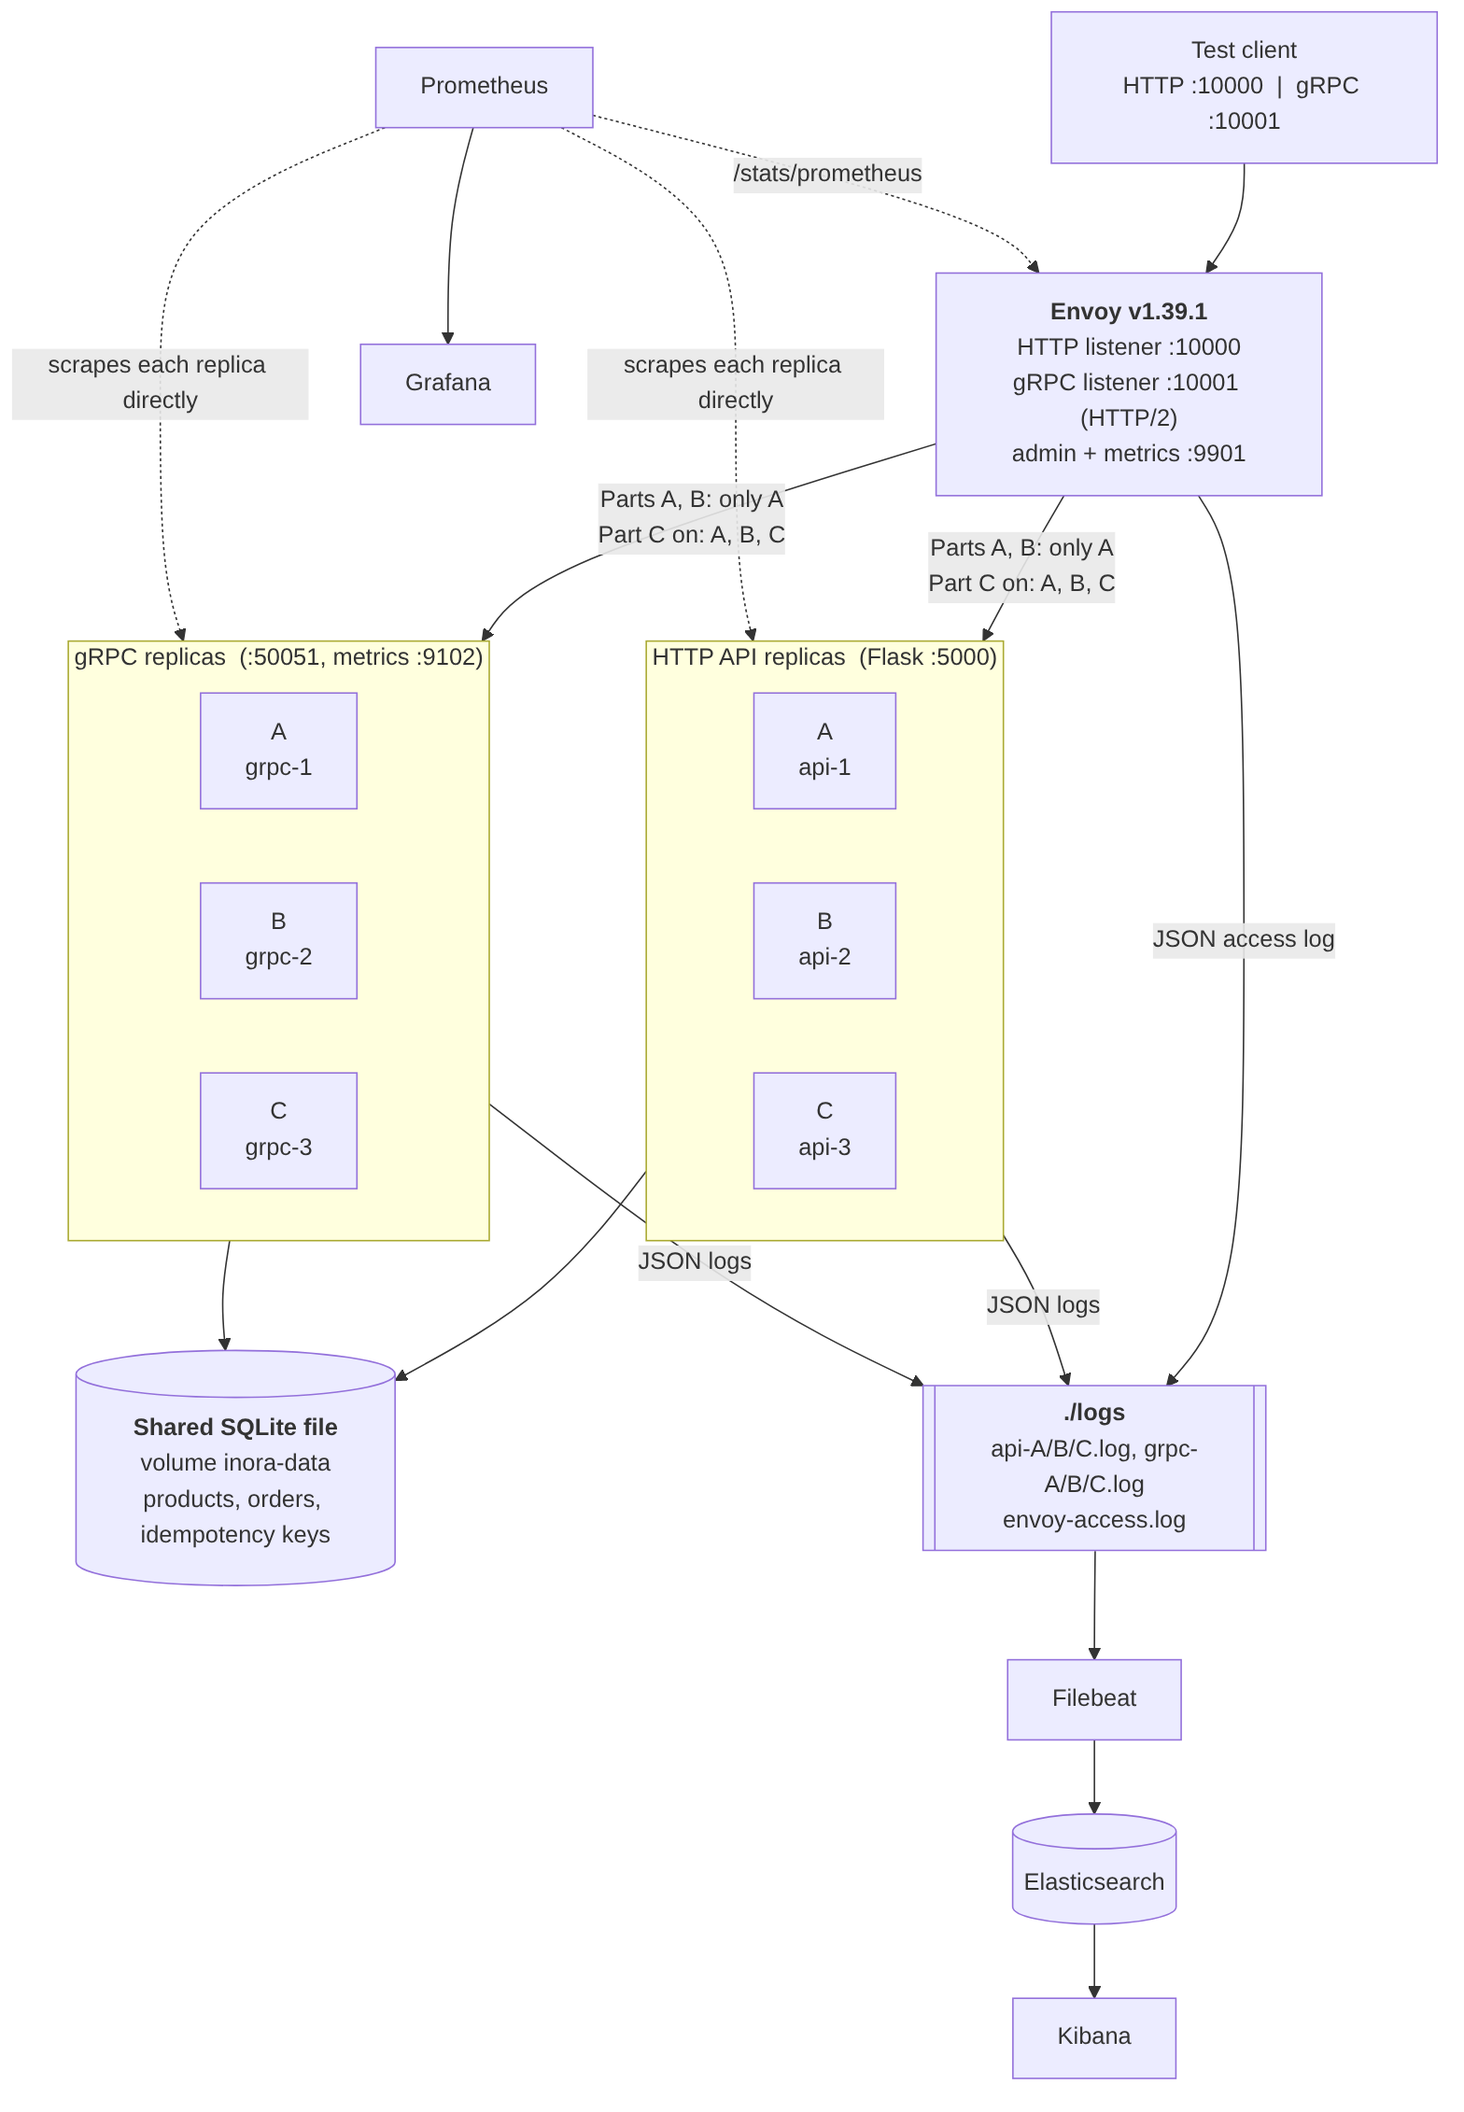
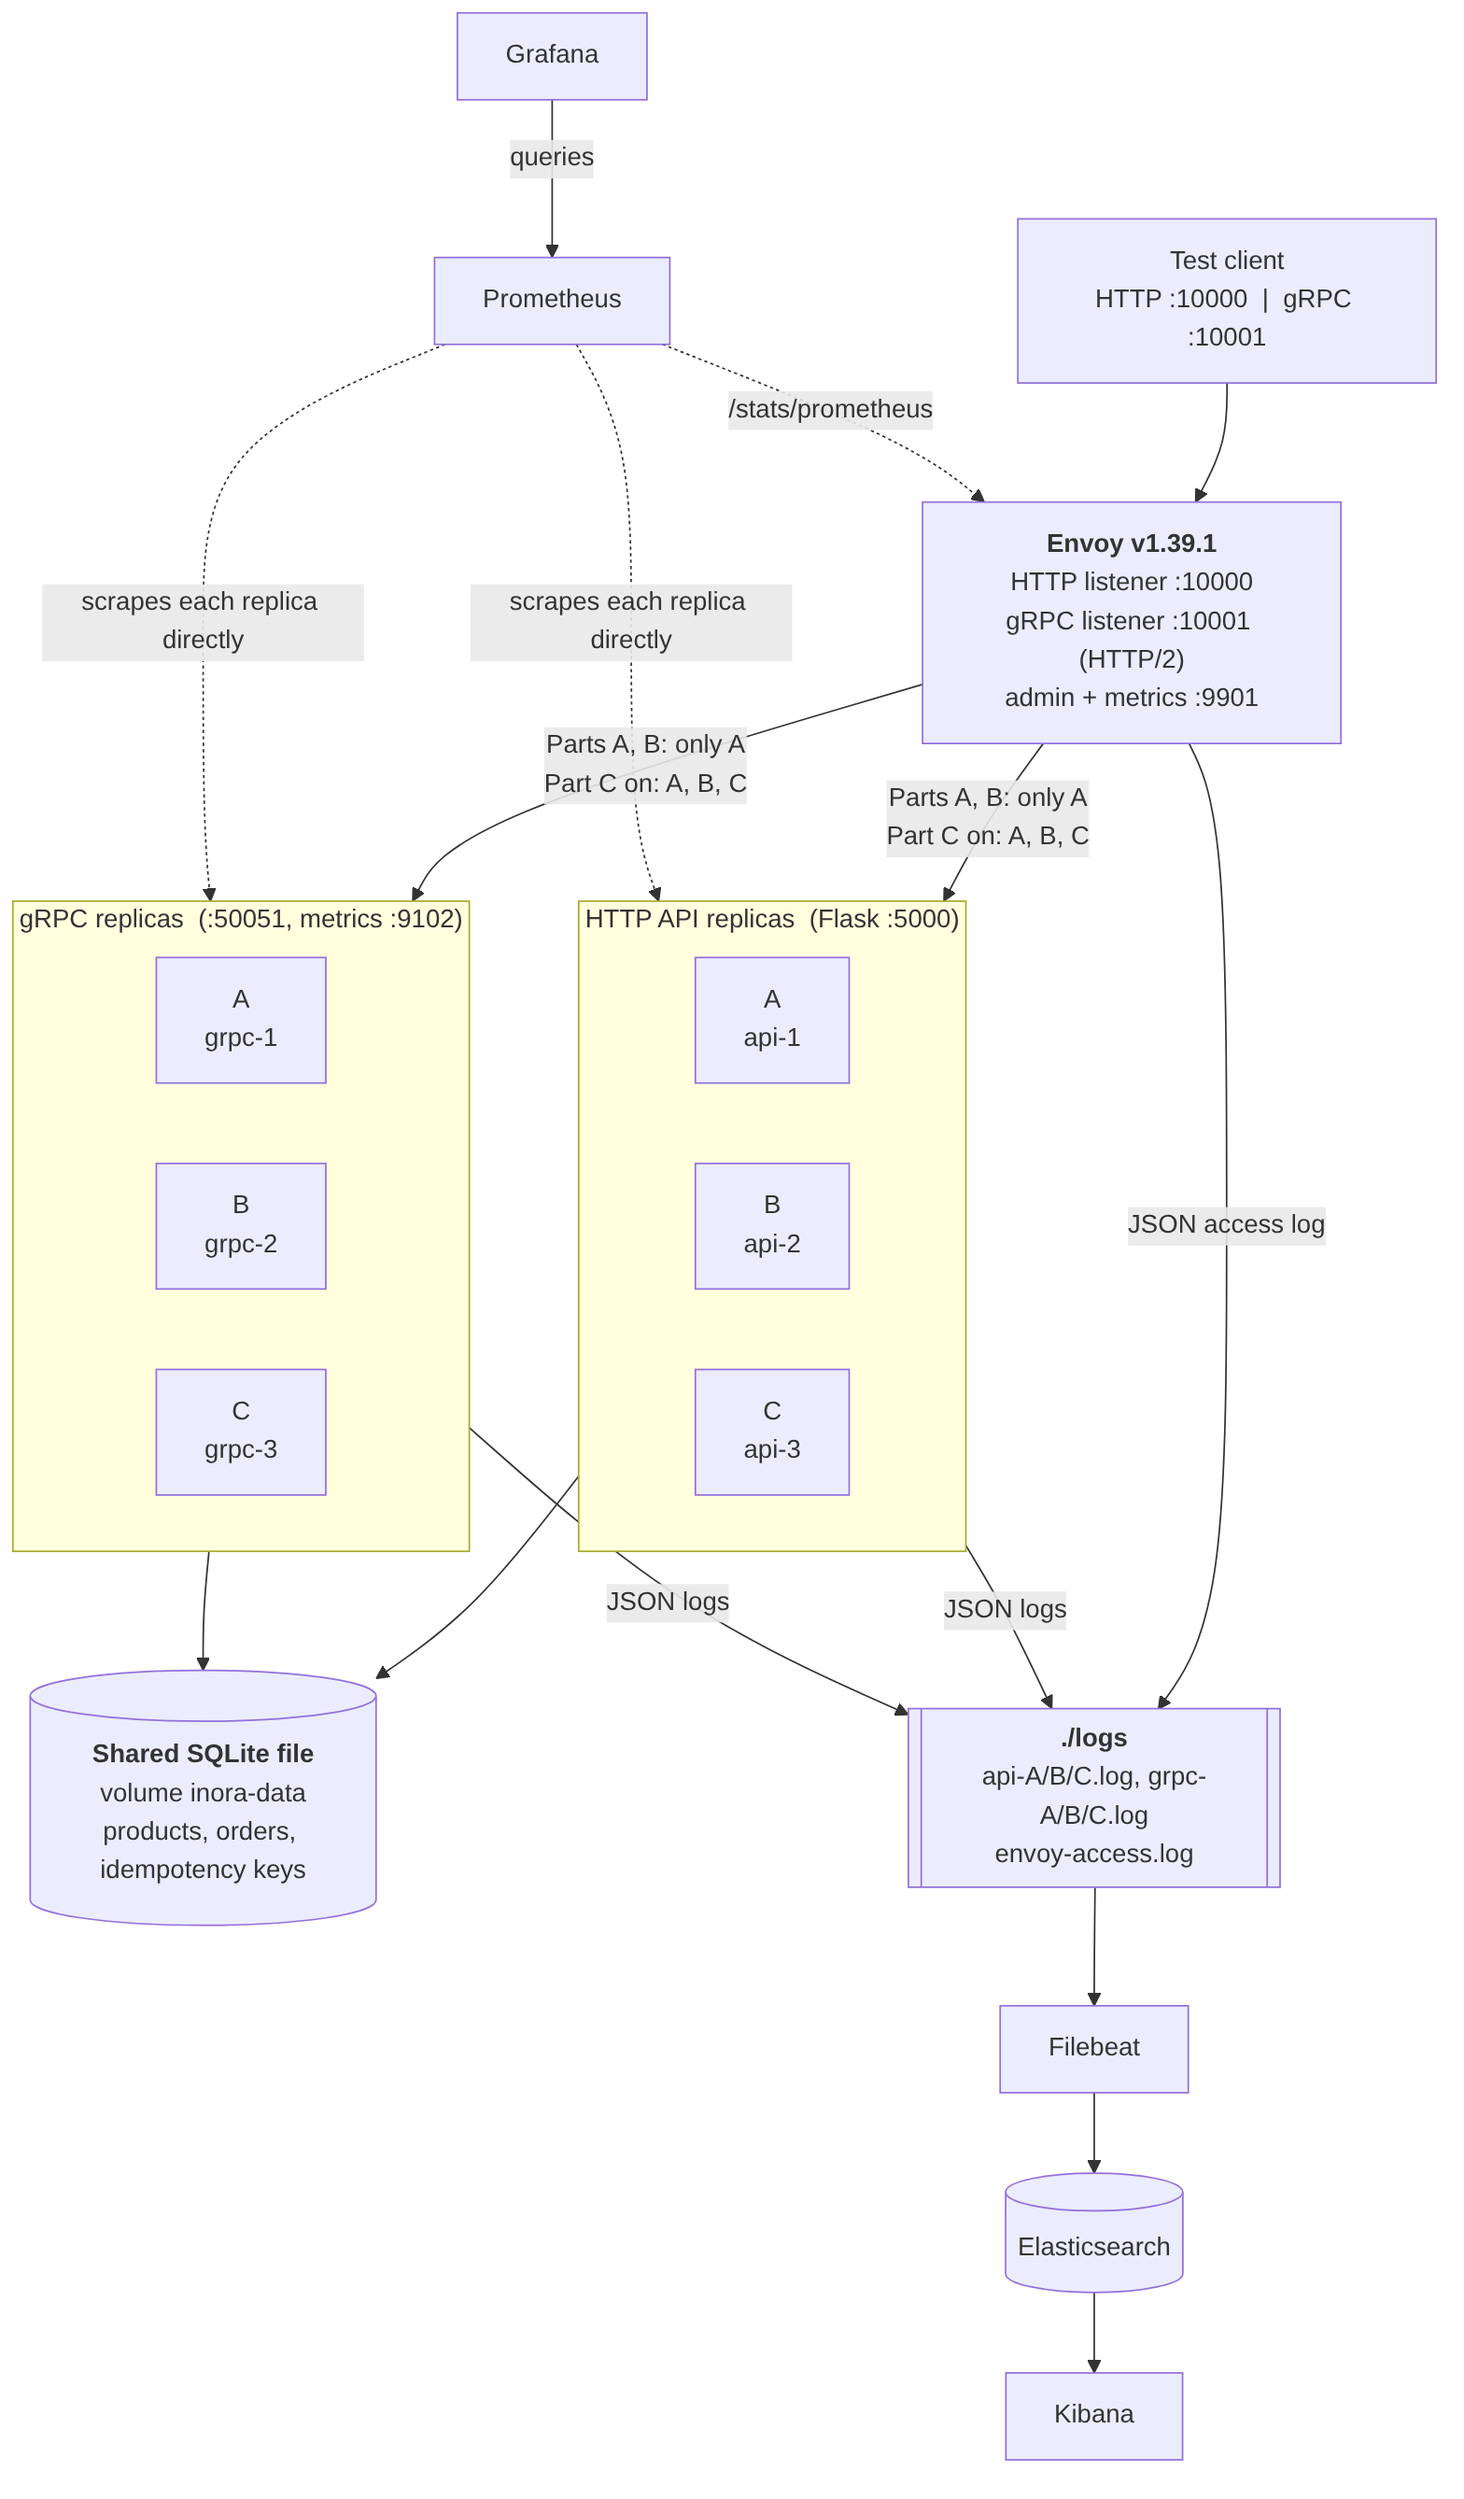
Shared-state doc audited against code; fix diagram arrow

diff --git a/docs/a3/SHARED_STATE.md b/docs/a3/SHARED_STATE.md
@@ -4,21 +4,28 @@ The HTTP API and the gRPC service each run as three identical copies (A, B, C). 
 any copy, so for every piece of state we must know: **is it shared by all replicas, or does each replica have
 its own?** If it is per replica, what goes wrong?
 
-| State | Where it lives | Shared or per replica? | What happens with several replicas |
-|---|---|---|---|
-| Products, stock, orders | One SQLite file on the Docker volume `inora-data`, mounted into every replica | **Shared** | Correct. Writes use `BEGIN IMMEDIATE`, so only one replica writes at a time and stock can never go negative. Limit: SQLite allows one writer at a time, so writes queue under load (not a problem for the read-only test traffic). |
-| Idempotency records (`Idempotency-Key` to order id) | Table `idempotency_keys` in the same SQLite file | **Shared** | Correct. A retry that lands on another replica, or on the other interface (HTTP vs gRPC), finds the stored key and returns the same order instead of creating a duplicate. Proven by `scripts/check_idempotency_across_replicas.py` (B creates, C and A replay). |
-| Rate-limit counters (5 requests / 10 s per client address on `POST /orders`) | A Python dict inside each API process (`FixedWindowRateLimiter`) | **Per replica** | The limit is no longer exact. With A only, a client gets 5 accepted + the rest `429`. With round robin over three replicas each replica counts separately, so about 15 requests are accepted in 10 s (about 3x the intended limit) and which requests are rejected depends on routing. Counters also vanish when a replica restarts. Shown by `scripts/ratelimit_demo.py` (A only now, round robin later). A shared counter store (for example in the database or Redis) or a limit enforced at Envoy would fix it. |
-| Prometheus metrics (counters, histograms, active requests) | In the memory of each process, exposed at its own `/metrics` | **Per replica** | Intended. Prometheus scrapes every replica separately and the `replica` label (A/B/C) tells the series apart, so dashboards can show each replica and the total (`sum`). A restart resets that replica's counters (Prometheus handles this in `rate()`). |
-| Product stock gauge (`inora_product_stock`) | Read from the shared database at scrape time | **Shared** (read by every replica) | All replicas report the same value; for totals use `max` or one replica, not `sum`. |
-| Log files | One file per replica in `./logs` (`api-A.log`, `grpc-B.log`, ...) plus Envoy's `envoy-access.log` | **Per replica** | Intended. Separate files stop replicas interleaving lines in one file. Every line carries `replica`, `trace_id` and `service_name`, so Elasticsearch/Kibana can join the Envoy event with the replica event for the same request. |
-| Trace context (`traceparent`) | Travels in the request (HTTP header / gRPC metadata) and is echoed back by the replica | **Stateless** | Nothing to share. Envoy forwards the header unchanged. Proven by `scripts/check_trace_propagation.py`. |
-| Replica identity (A/B/C) | Computed at start-up from the container name (`REPLICA_BASE` DNS lookup) | **Per replica** | Written to every log line, the `X-Replica` header, gRPC `x-replica` metadata and `inora_replica_info`. |
-| HTTP connections / gRPC channels | Between client and Envoy, and Envoy and replica | **Per connection** | A gRPC client keeps one long-lived HTTP/2 connection to Envoy. Because Envoy's gRPC listener understands HTTP/2 it can pick a replica **per call**, not per connection (this matters in Part C). |
+*Audited against the code on 2026-11-08; the last column says where each statement can be checked.*
+
+| State | Where it lives | Shared or per replica? | What happens with several replicas | Checked in |
+|---|---|---|---|---|
+| Products, stock, orders | One SQLite file on the Docker volume `inora-data`, mounted into every API and gRPC replica | **Shared** | Correct. Every write runs inside `BEGIN IMMEDIATE`, so only one replica writes at a time. Stock cannot go negative: the update only succeeds `WHERE stock >= quantity`, and the table also has `CHECK (stock >= 0)`. Limits: SQLite allows one writer at a time, so concurrent writes queue (a writer waits up to 10 s for the lock, then fails with "database is locked"); the database uses the default journal mode, so a read can briefly wait while a write commits. Our test traffic is read-only, so this does not affect the experiments. | `inora_core/service.py` (`place_order`, `_conn`, `SCHEMA`); `docker-compose.yml` volumes |
+| Idempotency records (`Idempotency-Key` to order id) | Table `idempotency_keys` in the same SQLite file | **Shared** | Correct. The key and the order are written in the same transaction. A retry that lands on another replica, or on the other interface (HTTP vs gRPC), finds the stored key and returns the same order instead of creating a duplicate. The same key with a different request is rejected as a conflict. | `place_order`; `scripts/check_idempotency_across_replicas.py` (B creates, C and A replay: PASS) |
+| Rate-limit counters (5 requests / 10 s per client address) | A Python dict inside each **HTTP API** process (`FixedWindowRateLimiter`); applies to `POST /orders` only. **gRPC has no rate limit.** | **Per replica** | The limit is no longer exact. With A only, a client gets 5 accepted and the rest `429`. With round robin over three replicas each replica counts separately, so we expect about 15 requests to be accepted in 10 s (about 3x the intended limit), and which requests are rejected depends on routing. This is a prediction until we measure it in Part C. Counters also vanish when a replica restarts. A shared counter store, or a limit enforced at Envoy, would fix it. The client key is the address in `X-Forwarded-For` (set by Envoy), so everything coming from one machine counts as one client. | `app.py` (`FixedWindowRateLimiter`, `place_order`); `scripts/ratelimit_demo.py` (A only: 5 accepted, 10 rejected) |
+| Prometheus metrics: request counts, latency histograms, active requests, order and rate-limit counters | In the memory of each process, exposed at that replica's own `/metrics` | **Per replica** | Intended. Prometheus scrapes every replica separately and the `replica` label (A/B/C) tells the series apart, so dashboards can show each replica and the total (`sum`). A restart resets that replica's counters (`rate()` handles this). | `app.py`, `grpc_metrics.py`; `prometheus.yml` |
+| Product stock gauge (`inora_product_stock`) | **gRPC replicas only.** Read from the shared database at scrape time | **Shared data**, reported by each gRPC replica | All three gRPC replicas report the same value, so for a total use `max` (or one replica), never `sum`. The HTTP API does not export this gauge. | `grpc_metrics.py` (`StockCollector`); registered in `grpc_server.py` |
+| Log files | One file per replica in `./logs` (`api-A.log`, `grpc-B.log`, ...) plus Envoy's `envoy-access.log` | **Per replica** | Intended. Separate files stop replicas interleaving lines in one file. Every replica line carries `replica`, `trace_id` and `service_name`, and Envoy's line carries `replica` and the trace headers, so Kibana can join the Envoy event with the replica event for the same request. | `inora_obs/logs.py`; `ls logs`; `scripts/check_trace_propagation.py` |
+| Trace context (`traceparent`) | Travels in the request (HTTP header / gRPC metadata) and is echoed back by the replica | **Stateless** | Nothing to share. Envoy forwards the header unchanged. | `scripts/check_trace_propagation.py` (HTTP and gRPC: PASS) |
+| Replica identity (A/B/C) | Computed at start-up from the container name (`REPLICA_BASE` DNS lookup) | **Per replica** | Written to every log line, the `X-Replica` header, gRPC `x-replica` metadata and `inora_replica_info`. | `inora_obs/replica.py`; `docker exec ... REPLICA` (A, B, C) |
+| HTTP connections / gRPC channels | Client to Envoy, and Envoy to each replica | **Per connection** | A gRPC client keeps one long-lived HTTP/2 connection to Envoy. Envoy's gRPC listener understands HTTP/2 and should choose a replica **per call**, not per connection. We expect this in Part C and will verify it there. | `envoy/envoy.yaml` (`grpc_listener`, `http2_protocol_options`) |
 
 ## Summary
 * **Business data and duplicate prevention are shared**, so any replica can serve any request and a retry on a
   different replica is safe.
-* **The rate limiter is the one piece of behaviour that breaks** (per replica counters). We keep it per replica on
-  purpose, measure the effect and explain it in the report.
+* **The rate limiter is the one piece of behaviour that breaks** (per replica counters, HTTP only). We keep it
+  per replica on purpose, measure the effect and explain it in the report.
 * **Metrics and logs are per replica by design** and are made comparable with the `replica` label / field.
+
+## Diagram notes
+`architecture.png` shows the request path, the shared database, logging and monitoring. It does not draw
+`node-exporter` (host metrics, scraped by Prometheus) or `swagger-ui` (API documentation page, calls the API
+through Envoy), which play no part in the load-balancing experiments.
